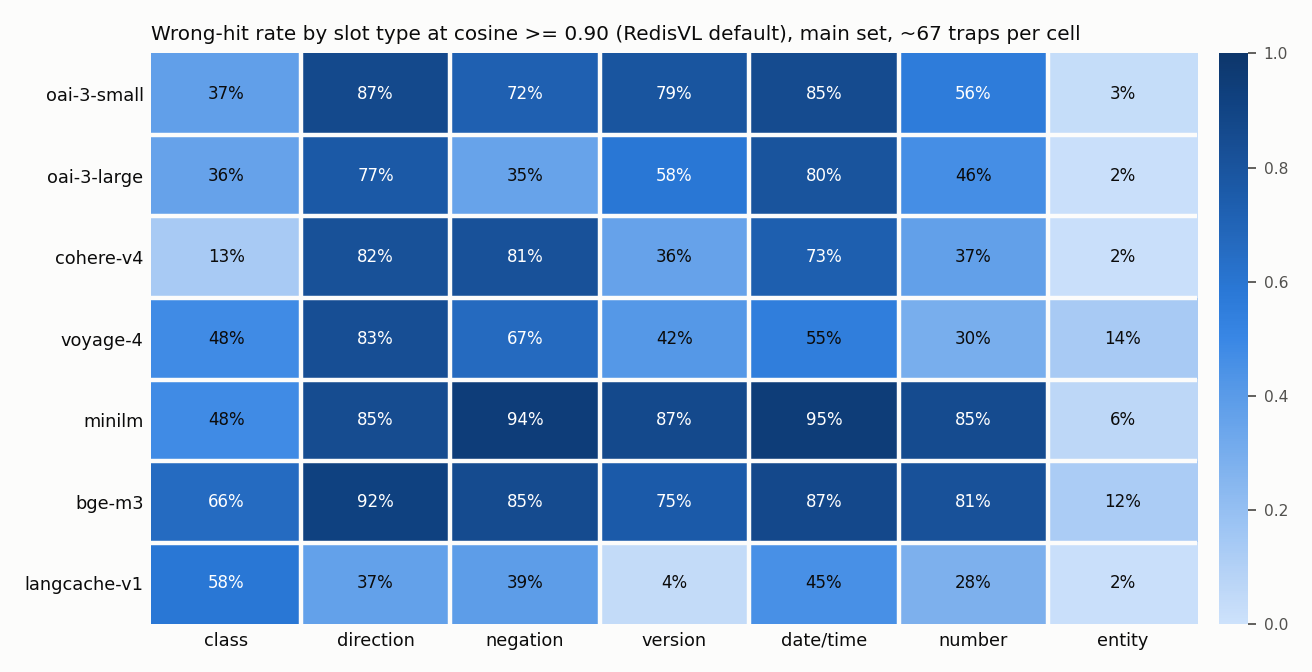
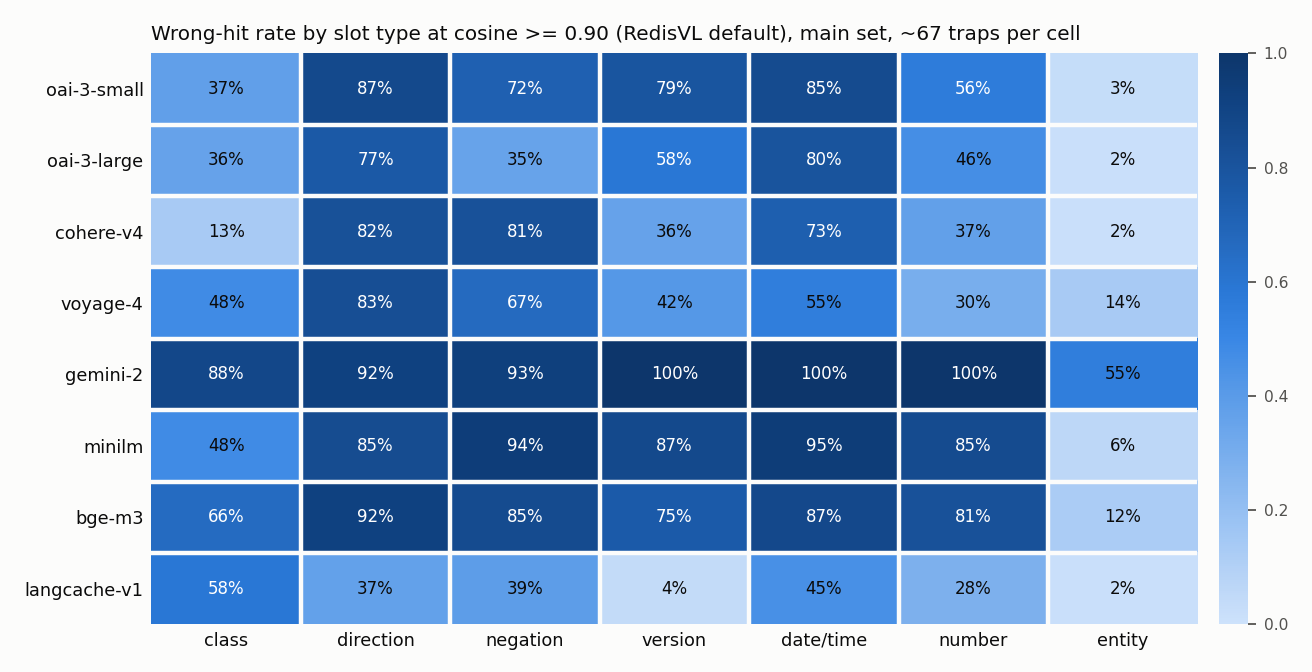
semcache: add gemini-embedding-2, results and findings for all 8 models
gemini-embedding-2 finished (1,056 remaining texts) and A3 ran on the pairs
only it passes; 1,021 pairs per decider, all ok, none fail open. Findings
updated: gemini scores on a higher scale (89% of traps / 97% of paraphrases
served at 0.90, best AUC 0.67), so one default threshold does not transfer.

diff --git a/semcache/RESULTS.md b/semcache/RESULTS.md
@@ -2,15 +2,13 @@
 
 Regenerated by `semcache/analyze.py`; not hand-edited (findings come from `semcache/findings.md`).
 
-Main set: 409 traps (need a different answer) and 360 controls (need the same answer), authored 402, gpt-6.1-sol 184, claude-sonnet-5-5 183. PAWS: 150 / 150. 7 embedding models (gemini-2 missing: see harness checks), deciders jev113 (`jev-1.13.0`), jev114 (`jev-1.14.0`), luna (`gpt-6-luna`).
+Main set: 409 traps (need a different answer) and 360 controls (need the same answer), authored 402, gpt-6.1-sol 184, claude-sonnet-5-5 183. PAWS: 150 / 150. 8 embedding models, deciders jev113 (`jev-1.13.0`), jev114 (`jev-1.14.0`), luna (`gpt-6-luna`).
 
 ## Top findings
 
-1. **At RedisVL's default threshold (cosine 0.90), an embedding-only cache served 31-70% of the queries that needed a different answer, and only 32-57% of the true paraphrases.** For 5 of 7 models, cosine scored the one-detail traps *above* real rewordings (AUC 0.29-0.45, CIs below 0.5); only voyage-4 (0.54) and the cache-tuned langcache-embed-v1 (0.56) beat chance, barely. Swapped direction is the worst case (77-92% served on 6 of 7 models; 37% on langcache-v1); swapped brand or provider is the mildest (2-14%). Raising the threshold does not fix it: A1 (the highest threshold keeping 80% of control hits) blocked only 7-19% of wrong hits while losing 9-17% of control hits. Library defaults at or below LangChain's 0.80 served 70-100% of traps.
-2. **A yes/no decision-model check on top (A3) blocked 93-99% of the wrong hits and gave up at most 1% of the control hits, for about $0.006-0.015 per 1,000 lookups.** Jev 1.13, Jev 1.14 and GPT-6 Luna were within noise of each other (they accept 3.0-4.9% of the traps they see; CIs overlap). It is not a complete fix: on PAWS word-swap pairs (where "Missouri ... America" becomes "America ... Missouri"), they still let 21-25% of non-paraphrases through and turned away 4-10% of real paraphrases.
-3. **The rule-based slot guard (A2) looked much better on its own author's data.** It caught 92% [88, 96] of traps on the pairs written by the same author (Claude Opus 5.5, before the pairs existed), but 71% [62, 81] on pairs written by gpt-6.1-sol and Claude Sonnet 5.5, and missed most direction traps (37% caught overall). It also blocked 14% of controls: 40% of number-format changes and 20% of other format aliases. On PAWS it blocked 6% of wrong hits. Hypotheses: direction traps did score above 0.95 on most models (6 of 7, medians 0.956-0.996); negation traps did not (only all-MiniLM-L6-v2 and BGE-M3 had medians above 0.95). The guard did block most traps and did lose hits on aliases, but how many it blocks depends on who wrote the traps.
-
-*gemini-embedding-2 is not in these numbers yet: its free-tier quota (1,000 requests/day) stopped it at 950 of 2,006 texts.*
+1. **At RedisVL's default threshold (cosine 0.90), an embedding-only cache served 31-70% of the queries that needed a different answer on 7 of 8 models, and only 32-57% of the true paraphrases.** For 5 of 8 models, cosine scored the one-detail traps *above* real rewordings (AUC 0.29-0.45, CIs below 0.5); voyage-4 (0.54), the cache-tuned langcache-embed-v1 (0.56) and gemini-embedding-2 (0.67) beat chance. gemini-embedding-2 shows the other half of the problem: its scores sit on a higher scale, so at 0.90 it served 89% of traps and 97% of paraphrases - one default threshold does not carry across models. Swapped direction is the worst case (77-92% served on 7 of 8 models; 37% on langcache-v1); swapped brand or provider the mildest (2-14%, except 55% on gemini-embedding-2). Raising the threshold does not fix it: A1 (the highest threshold keeping 80% of control hits, chosen out of fold) blocked 7-33% of wrong hits while losing 9-17% of control hits. Library defaults at or below LangChain's 0.80 served 70-100% of traps.
+2. **A yes/no decision-model check on top (A3) blocked 93-99% of the wrong hits and gave up 0-5% of the control hits, for about $0.006-0.026 per 1,000 lookups.** Jev 1.13, Jev 1.14 and GPT-6 Luna were within noise of each other on traps (they accept 3.0-4.6% of the traps they see; CIs overlap); Jev 1.14 turned away slightly more paraphrases (5.4% vs 2.0-3.4%; intervals overlap). It is not a complete fix: on PAWS word-swap pairs (where "Missouri ... America" becomes "America ... Missouri"), the deciders still let 21-25% of non-paraphrases through and turned away 4-10% of real paraphrases.
+3. **The rule-based slot guard (A2) looked much better on its own author's data.** On its own it caught 92% [88, 96] of traps on the pairs written by the same author (Claude Opus 5.5, before the pairs existed), but 71% [62, 81] on pairs written by gpt-6.1-sol and Claude Sonnet 5.5, and missed most direction traps (37% caught overall). It also blocked 14% of controls: 40% of number-format changes and 20% of other format aliases. On PAWS it blocked 5-6% of wrong hits. Hypotheses: direction traps did score above 0.95 on most models (7 of 8 medians 0.956-0.996; langcache-v1 0.875); negation traps did not (only all-MiniLM-L6-v2 and BGE-M3 had medians above 0.95). The guard did block most traps and did lose hits on aliases, but how many it blocks depends on who wrote the traps.
 
 ## Library defaults applied to each model (main set)
 
@@ -22,6 +20,7 @@ Wrong-hit rate / control hit rate at each library's default threshold, converted
 | oai-3-large | 46% / 35% | 82% / 66% | 97% / 87% | 100% / 97% |
 | cohere-v4 | 44% / 38% | 78% / 68% | 95% / 85% | 100% / 94% |
 | voyage-4 | 48% / 57% | 86% / 82% | 98% / 96% | 100% / 99% |
+| gemini-2 | 89% / 97% | 100% / 100% | 100% / 100% | 100% / 100% |
 | minilm | 69% / 36% | 84% / 66% | 91% / 80% | 97% / 91% |
 | bge-m3 | 70% / 55% | 94% / 84% | 99% / 95% | 100% / 99% |
 | langcache-v1 | 31% / 42% | 70% / 75% | 94% / 92% | 100% / 99% |
@@ -38,6 +37,7 @@ AUC = chance that a random control (same answer) scores higher than a random tra
 | oai-3-large (`text-embedding-3-large`) | 46.5% [41.6, 51.3] (n=409) | 34.7% [29.7, 39.7] (n=360) | 0.40 [0.36, 0.45] | 0.66 [0.60, 0.72] |
 | cohere-v4 (`embed-v4.0`) | 44.5% [40.1, 49.6] (n=409) | 38.1% [33.1, 43.1] (n=360) | 0.45 [0.41, 0.49] | 0.64 [0.58, 0.70] |
 | voyage-4 (`voyage-4`) | 47.7% [42.5, 52.6] (n=409) | 57.5% [52.5, 62.5] (n=360) | 0.54 [0.50, 0.59] | 0.64 [0.58, 0.70] |
+| gemini-2 (`gemini-embedding-2`) | 88.5% [85.3, 91.7] (n=409) | 97.2% [95.6, 98.9] (n=360) | 0.67 [0.62, 0.70] | 0.66 [0.60, 0.72] |
 | minilm (`sentence-transformers/all-MiniLM-L6-v2`) | 68.9% [64.3, 73.6] (n=409) | 36.1% [31.4, 41.1] (n=360) | 0.29 [0.25, 0.33] | 0.60 [0.54, 0.66] |
 | bge-m3 (`BAAI/bge-m3`) | 69.7% [65.3, 74.3] (n=409) | 55.0% [50.3, 60.0] (n=360) | 0.41 [0.37, 0.45] | 0.60 [0.54, 0.66] |
 | langcache-v1 (`redis/langcache-embed-v1`) | 30.6% [26.2, 35.2] (n=409) | 42.2% [36.9, 47.2] (n=360) | 0.56 [0.52, 0.60] | 0.66 [0.60, 0.72] |
@@ -50,6 +50,7 @@ AUC = chance that a random control (same answer) scores higher than a random tra
 | oai-3-large | 35.8% [25.4, 47.8] (n=67) | 76.7% [65.0, 86.7] (n=60) | 35.2% [22.2, 48.1] (n=54) | 58.5% [45.3, 71.7] (n=53) | 80.0% [69.1, 90.9] (n=55) | 46.3% [33.3, 59.3] (n=54) | 1.5% [0.0, 4.5] (n=66) |
 | cohere-v4 | 13.4% [6.0, 22.4] (n=67) | 81.7% [71.7, 90.0] (n=60) | 81.5% [70.4, 90.7] (n=54) | 35.8% [22.6, 49.1] (n=53) | 72.7% [60.0, 83.6] (n=55) | 37.0% [24.1, 50.0] (n=54) | 1.5% [0.0, 4.5] (n=66) |
 | voyage-4 | 47.8% [35.8, 59.7] (n=67) | 83.3% [73.3, 91.7] (n=60) | 66.7% [53.7, 77.8] (n=54) | 41.5% [28.3, 54.7] (n=53) | 54.5% [41.8, 67.3] (n=55) | 29.6% [16.7, 42.6] (n=54) | 13.6% [6.1, 22.7] (n=66) |
+| gemini-2 | 88.1% [80.6, 95.5] (n=67) | 91.7% [83.3, 98.3] (n=60) | 92.6% [85.2, 98.1] (n=54) | 100.0% [100.0, 100.0] (n=53) | 100.0% [100.0, 100.0] (n=55) | 100.0% [100.0, 100.0] (n=54) | 54.5% [42.4, 66.7] (n=66) |
 | minilm | 47.8% [35.8, 59.7] (n=67) | 85.0% [75.0, 93.3] (n=60) | 94.4% [87.0, 100.0] (n=54) | 86.8% [77.4, 94.3] (n=53) | 94.5% [87.3, 100.0] (n=55) | 85.2% [74.1, 94.4] (n=54) | 6.1% [1.5, 12.1] (n=66) |
 | bge-m3 | 65.7% [55.2, 76.1] (n=67) | 91.7% [83.3, 98.3] (n=60) | 85.2% [75.9, 94.4] (n=54) | 75.5% [64.2, 86.8] (n=53) | 87.3% [78.2, 94.5] (n=55) | 81.5% [70.4, 90.7] (n=54) | 12.1% [4.5, 21.2] (n=66) |
 | langcache-v1 | 58.2% [46.3, 70.1] (n=67) | 36.7% [25.0, 48.3] (n=60) | 38.9% [25.9, 51.9] (n=54) | 3.8% [0.0, 9.4] (n=53) | 45.5% [32.7, 58.2] (n=55) | 27.8% [16.7, 40.7] (n=54) | 1.5% [0.0, 4.5] (n=66) |
@@ -65,45 +66,51 @@ blocked = A0's wrong hits the fix stops; lost = A0's control hits the fix gives 
 | oai-3-small | A2 | 8.8% [6.1, 11.7] (n=409) | 26.7% [22.2, 31.4] (n=360) | 84.8% [80.2, 89.0] (n=237) | 17.2% [10.3, 25.0] (n=116) | $0.0003 |
 | oai-3-small | A3-jev113 | 3.4% [1.7, 5.4] (n=409) | 32.2% [27.2, 37.2] (n=360) | 94.1% [91.1, 97.0] (n=237) | 0.0% [0.0, 0.0] (n=116) | $0.0080 |
 | oai-3-small | A3-jev114 | 2.2% [1.0, 3.9] (n=409) | 32.2% [27.5, 36.9] (n=360) | 96.2% [93.7, 98.3] (n=237) | 0.0% [0.0, 0.0] (n=116) | $0.0080 |
-| oai-3-small | A3-luna | 2.7% [1.2, 4.4] (n=409) | 32.2% [28.1, 37.2] (n=360) | 95.4% [92.4, 97.9] (n=237) | 0.0% [0.0, 0.0] (n=116) | $0.0109 |
+| oai-3-small | A3-luna | 2.7% [1.2, 4.4] (n=409) | 32.2% [28.1, 37.2] (n=360) | 95.4% [92.4, 97.9] (n=237) | 0.0% [0.0, 0.0] (n=116) | $0.0108 |
 | oai-3-large | A0 | 46.5% [41.6, 51.3] (n=409) | 34.7% [29.7, 39.7] (n=360) | 0.0% [0.0, 0.0] (n=190) | 0.0% [0.0, 0.0] (n=125) | $0.0021 |
 | oai-3-large | A1 | 42.1% [37.4, 46.5] (n=409) | 29.2% [24.4, 33.9] (n=360) | 9.5% [5.3, 13.7] (n=190) | 16.0% [10.4, 22.4] (n=125) | $0.0021 |
 | oai-3-large | A2 | 7.1% [4.6, 9.5] (n=409) | 29.2% [24.7, 33.9] (n=360) | 84.7% [79.5, 89.5] (n=190) | 16.0% [9.6, 23.2] (n=125) | $0.0021 |
-| oai-3-large | A3-jev113 | 3.2% [1.5, 4.9] (n=409) | 34.7% [29.7, 39.7] (n=360) | 93.2% [89.5, 96.3] (n=190) | 0.0% [0.0, 0.0] (n=125) | $0.0090 |
-| oai-3-large | A3-jev114 | 2.2% [1.0, 3.9] (n=409) | 34.4% [29.4, 39.4] (n=360) | 95.3% [92.1, 97.9] (n=190) | 0.8% [0.0, 2.4] (n=125) | $0.0090 |
+| oai-3-large | A3-jev113 | 3.2% [1.5, 4.9] (n=409) | 34.7% [29.7, 39.7] (n=360) | 93.2% [89.5, 96.3] (n=190) | 0.0% [0.0, 0.0] (n=125) | $0.0089 |
+| oai-3-large | A3-jev114 | 2.2% [1.0, 3.9] (n=409) | 34.4% [29.4, 39.4] (n=360) | 95.3% [92.1, 97.9] (n=190) | 0.8% [0.0, 2.4] (n=125) | $0.0089 |
 | oai-3-large | A3-luna | 2.7% [1.2, 4.4] (n=409) | 34.7% [29.7, 40.0] (n=360) | 94.2% [91.1, 97.4] (n=190) | 0.0% [0.0, 0.0] (n=125) | $0.0115 |
 | cohere-v4 | A0 | 44.5% [40.1, 49.6] (n=409) | 38.1% [33.1, 43.1] (n=360) | 0.0% [0.0, 0.0] (n=182) | 0.0% [0.0, 0.0] (n=137) | $0.0020 |
 | cohere-v4 | A1 | 40.6% [35.7, 45.5] (n=409) | 33.1% [28.1, 38.1] (n=360) | 8.8% [4.9, 13.2] (n=182) | 13.1% [8.0, 19.0] (n=137) | $0.0020 |
 | cohere-v4 | A2 | 7.1% [4.6, 9.8] (n=409) | 33.1% [28.6, 38.1] (n=360) | 84.1% [79.1, 89.6] (n=182) | 13.1% [8.0, 19.0] (n=137) | $0.0020 |
 | cohere-v4 | A3-jev113 | 2.7% [1.2, 4.4] (n=409) | 37.8% [32.8, 43.1] (n=360) | 94.0% [90.7, 97.3] (n=182) | 0.7% [0.0, 2.2] (n=137) | $0.0090 |
 | cohere-v4 | A3-jev114 | 1.5% [0.5, 2.7] (n=409) | 37.8% [33.1, 42.8] (n=360) | 96.7% [94.0, 98.9] (n=182) | 0.7% [0.0, 2.2] (n=137) | $0.0090 |
-| cohere-v4 | A3-luna | 2.0% [0.7, 3.4] (n=409) | 37.8% [32.8, 43.1] (n=360) | 95.6% [92.3, 98.4] (n=182) | 0.7% [0.0, 2.2] (n=137) | $0.0116 |
+| cohere-v4 | A3-luna | 2.0% [0.7, 3.4] (n=409) | 37.8% [32.8, 43.1] (n=360) | 95.6% [92.3, 98.4] (n=182) | 0.7% [0.0, 2.2] (n=137) | $0.0115 |
 | voyage-4 | A0 | 47.7% [42.5, 52.6] (n=409) | 57.5% [52.5, 62.5] (n=360) | 0.0% [0.0, 0.0] (n=195) | 0.0% [0.0, 0.0] (n=207) | $0.0010 |
 | voyage-4 | A1 | 38.9% [34.2, 43.5] (n=409) | 50.0% [44.7, 55.3] (n=360) | 18.5% [13.3, 24.1] (n=195) | 13.0% [8.7, 17.9] (n=207) | $0.0010 |
 | voyage-4 | A2 | 8.6% [5.9, 11.2] (n=409) | 48.3% [43.3, 53.6] (n=360) | 82.1% [76.4, 87.2] (n=195) | 15.9% [11.1, 21.3] (n=207) | $0.0010 |
-| voyage-4 | A3-jev113 | 3.2% [1.5, 4.9] (n=409) | 57.2% [52.2, 62.5] (n=360) | 93.3% [89.7, 96.4] (n=195) | 0.5% [0.0, 1.4] (n=207) | $0.0098 |
-| voyage-4 | A3-jev114 | 2.2% [1.0, 3.9] (n=409) | 56.9% [51.7, 61.9] (n=360) | 95.4% [92.3, 97.9] (n=195) | 1.0% [0.0, 2.4] (n=207) | $0.0098 |
-| voyage-4 | A3-luna | 2.7% [1.2, 4.4] (n=409) | 57.2% [52.2, 62.5] (n=360) | 94.4% [90.8, 97.4] (n=195) | 0.5% [0.0, 1.4] (n=207) | $0.0131 |
+| voyage-4 | A3-jev113 | 3.2% [1.5, 4.9] (n=409) | 57.2% [52.2, 62.5] (n=360) | 93.3% [89.7, 96.4] (n=195) | 0.5% [0.0, 1.4] (n=207) | $0.0097 |
+| voyage-4 | A3-jev114 | 2.2% [1.0, 3.9] (n=409) | 56.9% [51.7, 61.9] (n=360) | 95.4% [92.3, 97.9] (n=195) | 1.0% [0.0, 2.4] (n=207) | $0.0097 |
+| voyage-4 | A3-luna | 2.7% [1.2, 4.4] (n=409) | 57.2% [52.2, 62.5] (n=360) | 94.4% [90.8, 97.4] (n=195) | 0.5% [0.0, 1.4] (n=207) | $0.0130 |
+| gemini-2 | A0 | 88.5% [85.3, 91.7] (n=409) | 97.2% [95.6, 98.9] (n=360) | 0.0% [0.0, 0.0] (n=362) | 0.0% [0.0, 0.0] (n=350) | $0.0050* |
+| gemini-2 | A1 | 59.4% [54.3, 64.1] (n=409) | 81.7% [77.8, 85.6] (n=360) | 32.9% [28.2, 37.8] (n=362) | 16.0% [12.3, 20.0] (n=350) | $0.0050* |
+| gemini-2 | A2 | 13.4% [10.3, 16.9] (n=409) | 83.3% [79.2, 86.9] (n=360) | 84.8% [81.2, 88.7] (n=362) | 14.3% [10.9, 18.0] (n=350) | $0.0050* |
+| gemini-2 | A3-jev113 | 4.2% [2.2, 6.1] (n=409) | 93.9% [91.4, 96.4] (n=360) | 95.3% [93.1, 97.2] (n=362) | 3.4% [1.7, 5.4] (n=350) | $0.0205* |
+| gemini-2 | A3-jev114 | 2.7% [1.2, 4.4] (n=409) | 91.9% [89.2, 94.7] (n=360) | 97.0% [95.0, 98.6] (n=362) | 5.4% [3.1, 8.0] (n=350) | $0.0205* |
+| gemini-2 | A3-luna | 3.2% [1.5, 4.9] (n=409) | 95.3% [93.1, 97.5] (n=360) | 96.4% [94.5, 98.1] (n=362) | 2.0% [0.6, 3.4] (n=350) | $0.0262* |
 | minilm | A0 | 68.9% [64.3, 73.6] (n=409) | 36.1% [31.4, 41.1] (n=360) | 0.0% [0.0, 0.0] (n=282) | 0.0% [0.0, 0.0] (n=130) | $0.0000 |
 | minilm | A1 | 64.1% [59.4, 68.5] (n=409) | 30.0% [25.3, 35.0] (n=360) | 7.1% [4.3, 10.3] (n=282) | 16.9% [10.8, 23.1] (n=130) | $0.0000 |
 | minilm | A2 | 8.3% [5.6, 11.2] (n=409) | 30.0% [25.6, 35.0] (n=360) | 87.9% [83.7, 91.8] (n=282) | 16.9% [10.8, 23.1] (n=130) | $0.0000 |
 | minilm | A3-jev113 | 3.7% [2.0, 5.6] (n=409) | 36.1% [31.1, 40.8] (n=360) | 94.7% [91.8, 97.2] (n=282) | 0.0% [0.0, 0.0] (n=130) | $0.0090 |
 | minilm | A3-jev114 | 2.4% [1.2, 4.2] (n=409) | 35.8% [31.1, 41.1] (n=360) | 96.5% [94.3, 98.6] (n=282) | 0.8% [0.0, 2.3] (n=130) | $0.0090 |
-| minilm | A3-luna | 2.7% [1.2, 4.4] (n=409) | 36.1% [31.4, 41.4] (n=360) | 96.1% [93.6, 98.2] (n=282) | 0.0% [0.0, 0.0] (n=130) | $0.0124 |
+| minilm | A3-luna | 2.7% [1.2, 4.4] (n=409) | 36.1% [31.4, 41.4] (n=360) | 96.1% [93.6, 98.2] (n=282) | 0.0% [0.0, 0.0] (n=130) | $0.0123 |
 | bge-m3 | A0 | 69.7% [65.3, 74.3] (n=409) | 55.0% [50.3, 60.0] (n=360) | 0.0% [0.0, 0.0] (n=285) | 0.0% [0.0, 0.0] (n=198) | $0.0000 |
 | bge-m3 | A1 | 56.7% [52.1, 61.6] (n=409) | 45.8% [40.6, 51.1] (n=360) | 18.6% [14.0, 23.2] (n=285) | 16.7% [11.6, 21.7] (n=198) | $0.0000 |
 | bge-m3 | A2 | 11.7% [8.8, 14.9] (n=409) | 47.2% [42.2, 52.5] (n=360) | 83.2% [78.6, 87.4] (n=285) | 14.1% [9.6, 19.2] (n=198) | $0.0000 |
-| bge-m3 | A3-jev113 | 3.4% [1.7, 5.4] (n=409) | 54.7% [49.7, 60.0] (n=360) | 95.1% [92.6, 97.5] (n=285) | 0.5% [0.0, 1.5] (n=198) | $0.0106 |
-| bge-m3 | A3-jev114 | 2.2% [1.0, 3.9] (n=409) | 54.4% [49.2, 59.4] (n=360) | 96.8% [94.7, 98.6] (n=285) | 1.0% [0.0, 2.5] (n=198) | $0.0106 |
-| bge-m3 | A3-luna | 2.7% [1.2, 4.4] (n=409) | 54.7% [49.7, 60.0] (n=360) | 96.1% [93.7, 98.2] (n=285) | 0.5% [0.0, 1.5] (n=198) | $0.0145 |
+| bge-m3 | A3-jev113 | 3.4% [1.7, 5.4] (n=409) | 54.7% [49.7, 60.0] (n=360) | 95.1% [92.6, 97.5] (n=285) | 0.5% [0.0, 1.5] (n=198) | $0.0105 |
+| bge-m3 | A3-jev114 | 2.2% [1.0, 3.9] (n=409) | 54.4% [49.2, 59.4] (n=360) | 96.8% [94.7, 98.6] (n=285) | 1.0% [0.0, 2.5] (n=198) | $0.0105 |
+| bge-m3 | A3-luna | 2.7% [1.2, 4.4] (n=409) | 54.7% [49.7, 60.0] (n=360) | 96.1% [93.7, 98.2] (n=285) | 0.5% [0.0, 1.5] (n=198) | $0.0144 |
 | langcache-v1 | A0 | 30.6% [26.2, 35.2] (n=409) | 42.2% [36.9, 47.2] (n=360) | 0.0% [0.0, 0.0] (n=125) | 0.0% [0.0, 0.0] (n=152) | $0.0000 |
 | langcache-v1 | A1 | 25.2% [21.0, 29.3] (n=409) | 38.3% [33.3, 43.3] (n=360) | 17.6% [11.2, 24.8] (n=125) | 9.2% [5.3, 13.8] (n=152) | $0.0000 |
 | langcache-v1 | A2 | 5.6% [3.4, 7.8] (n=409) | 35.8% [30.8, 40.8] (n=360) | 81.6% [74.4, 88.0] (n=125) | 15.1% [9.2, 21.1] (n=152) | $0.0000 |
-| langcache-v1 | A3-jev113 | 0.7% [0.0, 1.7] (n=409) | 42.2% [37.2, 47.5] (n=360) | 97.6% [94.4, 100.0] (n=125) | 0.0% [0.0, 0.0] (n=152) | $0.0061 |
-| langcache-v1 | A3-jev114 | 0.2% [0.0, 0.7] (n=409) | 42.2% [37.2, 47.5] (n=360) | 99.2% [97.6, 100.0] (n=125) | 0.0% [0.0, 0.0] (n=152) | $0.0061 |
+| langcache-v1 | A3-jev113 | 0.7% [0.0, 1.7] (n=409) | 42.2% [37.2, 47.5] (n=360) | 97.6% [94.4, 100.0] (n=125) | 0.0% [0.0, 0.0] (n=152) | $0.0060 |
+| langcache-v1 | A3-jev114 | 0.2% [0.0, 0.7] (n=409) | 42.2% [37.2, 47.5] (n=360) | 99.2% [97.6, 100.0] (n=125) | 0.0% [0.0, 0.0] (n=152) | $0.0060 |
 | langcache-v1 | A3-luna | 1.2% [0.2, 2.2] (n=409) | 42.2% [37.2, 47.2] (n=360) | 96.0% [92.0, 99.2] (n=125) | 0.0% [0.0, 0.0] (n=152) | $0.0083 |
 
-A1 thresholds chosen out of fold (fold 0 / fold 1): oai-3-small 0.91/0.91, oai-3-large 0.90/0.92, cohere-v4 0.91/0.91, voyage-4 0.92/0.91, minilm 0.92/0.92, bge-m3 0.92/0.93, langcache-v1 0.91/0.91.
+A1 thresholds chosen out of fold (fold 0 / fold 1): oai-3-small 0.91/0.91, oai-3-large 0.90/0.92, cohere-v4 0.91/0.91, voyage-4 0.92/0.91, gemini-2 0.94/0.94, minilm 0.92/0.92, bge-m3 0.92/0.93, langcache-v1 0.91/0.91.
 \* gemini-embedding-2 reports no usage; its embedding cost is the estimate. Local models: $0 API cost (compute not counted). A3 cost assumes this set's A0 pass rate.
 
 ## Does the author matter? Fixes by source group (A0 at 0.90)
@@ -132,6 +139,11 @@ Same metrics on each source group. The slot guard (A2) and the authored pairs sh
 | voyage-4 | A3-jev113 | 96.1% [90.9, 100.0] (n=77) / 1.1% [0.0, 3.4] (n=88) | 92.4% [84.8, 98.5] (n=66) / 0.0% [0.0, 0.0] (n=68) | 90.4% [82.7, 98.1] (n=52) / 0.0% [0.0, 0.0] (n=51) |
 | voyage-4 | A3-jev114 | 97.4% [93.5, 100.0] (n=77) / 2.3% [0.0, 5.7] (n=88) | 95.5% [89.4, 100.0] (n=66) / 0.0% [0.0, 0.0] (n=68) | 92.3% [84.6, 98.1] (n=52) / 0.0% [0.0, 0.0] (n=51) |
 | voyage-4 | A3-luna | 97.4% [93.5, 100.0] (n=77) / 1.1% [0.0, 3.4] (n=88) | 97.0% [92.4, 100.0] (n=66) / 0.0% [0.0, 0.0] (n=68) | 86.5% [76.9, 96.2] (n=52) / 0.0% [0.0, 0.0] (n=51) |
+| gemini-2 | A1 | 39.7% [32.6, 46.7] (n=184) / 25.5% [19.8, 31.2] (n=192) | 22.5% [14.6, 31.5] (n=89) / 1.2% [0.0, 3.8] (n=80) | 29.2% [20.2, 39.3] (n=89) / 7.7% [2.6, 14.1] (n=78) |
+| gemini-2 | A2 | 91.3% [87.0, 95.1] (n=184) / 13.0% [8.3, 18.2] (n=192) | 77.5% [68.5, 85.4] (n=89) / 15.0% [7.5, 23.8] (n=80) | 78.7% [69.7, 86.5] (n=89) / 16.7% [9.0, 25.6] (n=78) |
+| gemini-2 | A3-jev113 | 97.8% [95.7, 99.5] (n=184) / 5.7% [2.6, 9.4] (n=192) | 93.3% [87.6, 97.8] (n=89) / 0.0% [0.0, 0.0] (n=80) | 92.1% [86.5, 97.8] (n=89) / 1.3% [0.0, 3.8] (n=78) |
+| gemini-2 | A3-jev114 | 98.4% [96.2, 100.0] (n=184) / 9.4% [5.2, 14.1] (n=192) | 96.6% [92.1, 100.0] (n=89) / 0.0% [0.0, 0.0] (n=80) | 94.4% [89.9, 98.9] (n=89) / 1.3% [0.0, 3.8] (n=78) |
+| gemini-2 | A3-luna | 98.9% [97.3, 100.0] (n=184) / 3.1% [1.0, 5.7] (n=192) | 96.6% [93.3, 100.0] (n=89) / 0.0% [0.0, 0.0] (n=80) | 91.0% [84.3, 96.6] (n=89) / 1.3% [0.0, 3.8] (n=78) |
 | minilm | A1 | 9.2% [5.0, 14.2] (n=141) / 20.4% [10.2, 32.7] (n=49) | 2.7% [0.0, 6.7] (n=75) / 18.6% [7.0, 30.2] (n=43) | 7.6% [1.5, 13.6] (n=66) / 10.5% [2.6, 21.1] (n=38) |
 | minilm | A2 | 90.1% [85.1, 94.3] (n=141) / 14.3% [4.1, 24.5] (n=49) | 82.7% [73.3, 90.7] (n=75) / 16.3% [7.0, 27.9] (n=43) | 89.4% [81.8, 95.5] (n=66) / 21.1% [7.9, 34.2] (n=38) |
 | minilm | A3-jev113 | 97.2% [94.3, 99.3] (n=141) / 0.0% [0.0, 0.0] (n=49) | 93.3% [86.7, 98.7] (n=75) / 0.0% [0.0, 0.0] (n=43) | 90.9% [83.3, 97.0] (n=66) / 0.0% [0.0, 0.0] (n=38) |
@@ -163,18 +175,18 @@ False blocks by control type (all groups): class 7.7% [0.0, 23.1] (n=13); date_t
 
 | Decider | Group | accepts a trap (P(yes) >= 0.5) | rejects a control |
 |---|---|---|---|
-| jev113 | authored | 2.5% [0.6, 4.9] (n=163) | 0.9% [0.0, 2.8] (n=107) |
-| jev113 | gpt-6.1-sol | 7.0% [2.3, 12.8] (n=86) | 0.0% [0.0, 0.0] (n=76) |
-| jev113 | claude-sonnet-5-5 | 7.5% [2.5, 13.8] (n=80) | 0.0% [0.0, 0.0] (n=66) |
-| jev113 | all | 4.9% [2.7, 7.3] (n=329) | 0.4% [0.0, 1.2] (n=249) |
-| jev114 | authored | 1.8% [0.0, 4.3] (n=163) | 2.8% [0.0, 6.5] (n=107) |
-| jev114 | gpt-6.1-sol | 3.5% [0.0, 8.1] (n=86) | 0.0% [0.0, 0.0] (n=76) |
-| jev114 | claude-sonnet-5-5 | 5.0% [1.2, 10.0] (n=80) | 0.0% [0.0, 0.0] (n=66) |
-| jev114 | all | 3.0% [1.5, 4.9] (n=329) | 1.2% [0.0, 2.8] (n=249) |
-| luna | authored | 1.2% [0.0, 3.1] (n=163) | 0.9% [0.0, 2.8] (n=107) |
-| luna | gpt-6.1-sol | 3.5% [0.0, 8.1] (n=86) | 0.0% [0.0, 0.0] (n=76) |
-| luna | claude-sonnet-5-5 | 8.8% [3.8, 15.0] (n=80) | 0.0% [0.0, 0.0] (n=66) |
-| luna | all | 3.6% [1.8, 5.8] (n=329) | 0.4% [0.0, 1.2] (n=249) |
+| jev113 | authored | 2.2% [0.5, 4.3] (n=186) | 5.7% [2.6, 9.4] (n=192) |
+| jev113 | gpt-6.1-sol | 6.5% [2.2, 12.0] (n=92) | 0.0% [0.0, 0.0] (n=80) |
+| jev113 | claude-sonnet-5-5 | 7.5% [2.2, 12.9] (n=93) | 1.3% [0.0, 3.8] (n=78) |
+| jev113 | all | 4.6% [2.7, 6.7] (n=371) | 3.4% [1.7, 5.7] (n=350) |
+| jev114 | authored | 1.6% [0.0, 3.8] (n=186) | 9.4% [5.2, 13.5] (n=192) |
+| jev114 | gpt-6.1-sol | 3.3% [0.0, 7.6] (n=92) | 0.0% [0.0, 0.0] (n=80) |
+| jev114 | claude-sonnet-5-5 | 5.4% [1.1, 9.7] (n=93) | 1.3% [0.0, 3.8] (n=78) |
+| jev114 | all | 3.0% [1.3, 4.9] (n=371) | 5.4% [3.1, 7.7] (n=350) |
+| luna | authored | 1.1% [0.0, 2.7] (n=186) | 3.1% [1.0, 5.7] (n=192) |
+| luna | gpt-6.1-sol | 3.3% [0.0, 7.6] (n=92) | 0.0% [0.0, 0.0] (n=80) |
+| luna | claude-sonnet-5-5 | 8.6% [3.2, 14.0] (n=93) | 1.3% [0.0, 3.8] (n=78) |
+| luna | all | 3.5% [1.6, 5.4] (n=371) | 2.0% [0.9, 3.7] (n=350) |
 
 ## Hypotheses
 
@@ -186,6 +198,7 @@ H1: direction and negation traps score above 0.95 on most models. Share of those
 | oai-3-large | 55.0% [43.3, 66.7] (n=60) (median 0.957) | 5.6% [0.0, 13.0] (n=54) (median 0.862) |
 | cohere-v4 | 60.0% [48.3, 71.7] (n=60) (median 0.956) | 29.6% [18.5, 42.6] (n=54) (median 0.929) |
 | voyage-4 | 78.3% [68.3, 88.3] (n=60) (median 0.985) | 24.1% [13.0, 35.2] (n=54) (median 0.918) |
+| gemini-2 | 76.7% [66.7, 86.7] (n=60) (median 0.986) | 33.3% [20.4, 46.3] (n=54) (median 0.940) |
 | minilm | 83.3% [73.3, 91.7] (n=60) (median 0.996) | 79.6% [68.5, 88.9] (n=54) (median 0.975) |
 | bge-m3 | 86.7% [76.7, 95.0] (n=60) (median 0.993) | 51.9% [38.9, 66.7] (n=54) (median 0.951) |
 | langcache-v1 | 10.0% [3.3, 18.3] (n=60) (median 0.875) | 14.8% [5.6, 25.9] (n=54) (median 0.881) |
@@ -220,6 +233,12 @@ H2: the slot guard blocks most traps but loses hits on aliases: see the slot-gua
 | voyage-4 | A3-jev113 | 24.7% [18.0, 31.3] (n=150) | 88.7% [83.3, 94.0] (n=150) | 72.6% [65.9, 80.0] (n=135) | 4.3% [1.4, 7.9] (n=139) |
 | voyage-4 | A3-jev114 | 22.7% [16.7, 29.3] (n=150) | 86.7% [81.3, 92.0] (n=150) | 74.8% [67.4, 82.2] (n=135) | 6.5% [2.9, 10.8] (n=139) |
 | voyage-4 | A3-luna | 22.0% [15.3, 28.7] (n=150) | 83.3% [77.3, 88.7] (n=150) | 75.6% [68.1, 83.0] (n=135) | 10.1% [5.0, 15.8] (n=139) |
+| gemini-2 | A0 | 100.0% [100.0, 100.0] (n=150) | 100.0% [100.0, 100.0] (n=150) | 0.0% [0.0, 0.0] (n=150) | 0.0% [0.0, 0.0] (n=150) |
+| gemini-2 | A1 | 99.3% [98.0, 100.0] (n=150) | 98.7% [96.7, 100.0] (n=150) | 0.7% [0.0, 2.0] (n=150) | 1.3% [0.0, 3.3] (n=150) |
+| gemini-2 | A2 | 94.7% [90.7, 98.0] (n=150) | 94.0% [90.0, 97.3] (n=150) | 5.3% [2.0, 9.3] (n=150) | 6.0% [2.7, 10.0] (n=150) |
+| gemini-2 | A3-jev113 | 25.3% [18.7, 32.0] (n=150) | 94.7% [91.3, 98.0] (n=150) | 74.7% [68.0, 81.3] (n=150) | 5.3% [2.0, 9.3] (n=150) |
+| gemini-2 | A3-jev114 | 23.3% [17.3, 30.0] (n=150) | 92.7% [88.0, 96.7] (n=150) | 76.7% [70.0, 82.7] (n=150) | 7.3% [3.3, 12.0] (n=150) |
+| gemini-2 | A3-luna | 24.0% [16.7, 30.7] (n=150) | 90.7% [86.0, 95.3] (n=150) | 76.0% [69.3, 82.7] (n=150) | 9.3% [5.3, 14.7] (n=150) |
 | minilm | A0 | 93.3% [89.3, 97.3] (n=150) | 90.0% [85.3, 94.7] (n=150) | 0.0% [0.0, 0.0] (n=140) | 0.0% [0.0, 0.0] (n=135) |
 | minilm | A1 | 91.3% [86.7, 95.3] (n=150) | 87.3% [82.0, 92.0] (n=150) | 2.1% [0.0, 5.0] (n=140) | 3.0% [0.7, 5.9] (n=135) |
 | minilm | A2 | 88.0% [82.7, 92.7] (n=150) | 87.3% [82.0, 92.0] (n=150) | 5.7% [2.1, 10.0] (n=140) | 3.0% [0.7, 5.9] (n=135) |
@@ -243,20 +262,18 @@ H2: the slot guard blocks most traps but loses hits on aliases: see the slot-gua
 
 ```json
 {
- "scores_missing": {
-  "gemini-2": 1069
- },
+ "scores_missing": {},
  "decision_status": {
-  "jev113|ok": 870,
-  "jev114|ok": 870,
-  "luna|ok": 870
+  "jev113|ok": 1021,
+  "jev114|ok": 1021,
+  "luna|ok": 1021
  },
  "a0_passing_pairs_without_decision": 0,
  "a3_fail_open": {},
  "decider_api_models": {
-  "jev113|jev-1.13.0": 870,
-  "jev114|jev-1.14.0": 870,
-  "luna|gpt-6-luna": 870
+  "jev113|jev-1.13.0": 1021,
+  "jev114|jev-1.14.0": 1021,
+  "luna|gpt-6-luna": 1021
  }
 }
 ```

diff --git a/semcache/findings.md b/semcache/findings.md
@@ -1,5 +1,3 @@
-1. **At RedisVL's default threshold (cosine 0.90), an embedding-only cache served 31-70% of the queries that needed a different answer, and only 32-57% of the true paraphrases.** For 5 of 7 models, cosine scored the one-detail traps *above* real rewordings (AUC 0.29-0.45, CIs below 0.5); only voyage-4 (0.54) and the cache-tuned langcache-embed-v1 (0.56) beat chance, barely. Swapped direction is the worst case (77-92% served on 6 of 7 models; 37% on langcache-v1); swapped brand or provider is the mildest (2-14%). Raising the threshold does not fix it: A1 (the highest threshold keeping 80% of control hits) blocked only 7-19% of wrong hits while losing 9-17% of control hits. Library defaults at or below LangChain's 0.80 served 70-100% of traps.
-2. **A yes/no decision-model check on top (A3) blocked 93-99% of the wrong hits and gave up at most 1% of the control hits, for about $0.006-0.015 per 1,000 lookups.** Jev 1.13, Jev 1.14 and GPT-6 Luna were within noise of each other (they accept 3.0-4.9% of the traps they see; CIs overlap). It is not a complete fix: on PAWS word-swap pairs (where "Missouri ... America" becomes "America ... Missouri"), they still let 21-25% of non-paraphrases through and turned away 4-10% of real paraphrases.
-3. **The rule-based slot guard (A2) looked much better on its own author's data.** It caught 92% [88, 96] of traps on the pairs written by the same author (Claude Opus 5.5, before the pairs existed), but 71% [62, 81] on pairs written by gpt-6.1-sol and Claude Sonnet 5.5, and missed most direction traps (37% caught overall). It also blocked 14% of controls: 40% of number-format changes and 20% of other format aliases. On PAWS it blocked 6% of wrong hits. Hypotheses: direction traps did score above 0.95 on most models (6 of 7, medians 0.956-0.996); negation traps did not (only all-MiniLM-L6-v2 and BGE-M3 had medians above 0.95). The guard did block most traps and did lose hits on aliases, but how many it blocks depends on who wrote the traps.
-
-*gemini-embedding-2 is not in these numbers yet: its free-tier quota (1,000 requests/day) stopped it at 950 of 2,006 texts.*
+1. **At RedisVL's default threshold (cosine 0.90), an embedding-only cache served 31-70% of the queries that needed a different answer on 7 of 8 models, and only 32-57% of the true paraphrases.** For 5 of 8 models, cosine scored the one-detail traps *above* real rewordings (AUC 0.29-0.45, CIs below 0.5); voyage-4 (0.54), the cache-tuned langcache-embed-v1 (0.56) and gemini-embedding-2 (0.67) beat chance. gemini-embedding-2 shows the other half of the problem: its scores sit on a higher scale, so at 0.90 it served 89% of traps and 97% of paraphrases - one default threshold does not carry across models. Swapped direction is the worst case (77-92% served on 7 of 8 models; 37% on langcache-v1); swapped brand or provider the mildest (2-14%, except 55% on gemini-embedding-2). Raising the threshold does not fix it: A1 (the highest threshold keeping 80% of control hits, chosen out of fold) blocked 7-33% of wrong hits while losing 9-17% of control hits. Library defaults at or below LangChain's 0.80 served 70-100% of traps.
+2. **A yes/no decision-model check on top (A3) blocked 93-99% of the wrong hits and gave up 0-5% of the control hits, for about $0.006-0.026 per 1,000 lookups.** Jev 1.13, Jev 1.14 and GPT-6 Luna were within noise of each other on traps (they accept 3.0-4.6% of the traps they see; CIs overlap); Jev 1.14 turned away slightly more paraphrases (5.4% vs 2.0-3.4%; intervals overlap). It is not a complete fix: on PAWS word-swap pairs (where "Missouri ... America" becomes "America ... Missouri"), the deciders still let 21-25% of non-paraphrases through and turned away 4-10% of real paraphrases.
+3. **The rule-based slot guard (A2) looked much better on its own author's data.** On its own it caught 92% [88, 96] of traps on the pairs written by the same author (Claude Opus 5.5, before the pairs existed), but 71% [62, 81] on pairs written by gpt-6.1-sol and Claude Sonnet 5.5, and missed most direction traps (37% caught overall). It also blocked 14% of controls: 40% of number-format changes and 20% of other format aliases. On PAWS it blocked 5-6% of wrong hits. Hypotheses: direction traps did score above 0.95 on most models (7 of 8 medians 0.956-0.996; langcache-v1 0.875); negation traps did not (only all-MiniLM-L6-v2 and BGE-M3 had medians above 0.95). The guard did block most traps and did lose hits on aliases, but how many it blocks depends on who wrote the traps.

diff --git a/README.md b/README.md
@@ -8,7 +8,7 @@ Report: [results page](https://claude.ai/artifact/Gx6BMTmdnpmUVWFt35Adf4) · tab
 [persuasion/RESULTS.md](persuasion/RESULTS.md)
 
 **Post 2: How often does a semantic cache serve the wrong stored answer?** (`semcache/`)
-Tables and figures in [semcache/RESULTS.md](semcache/RESULTS.md) (7 of 8 embedding models; gemini-embedding-2 pending quota).
+Tables and figures in [semcache/RESULTS.md](semcache/RESULTS.md).
 
 ## Setup
 
